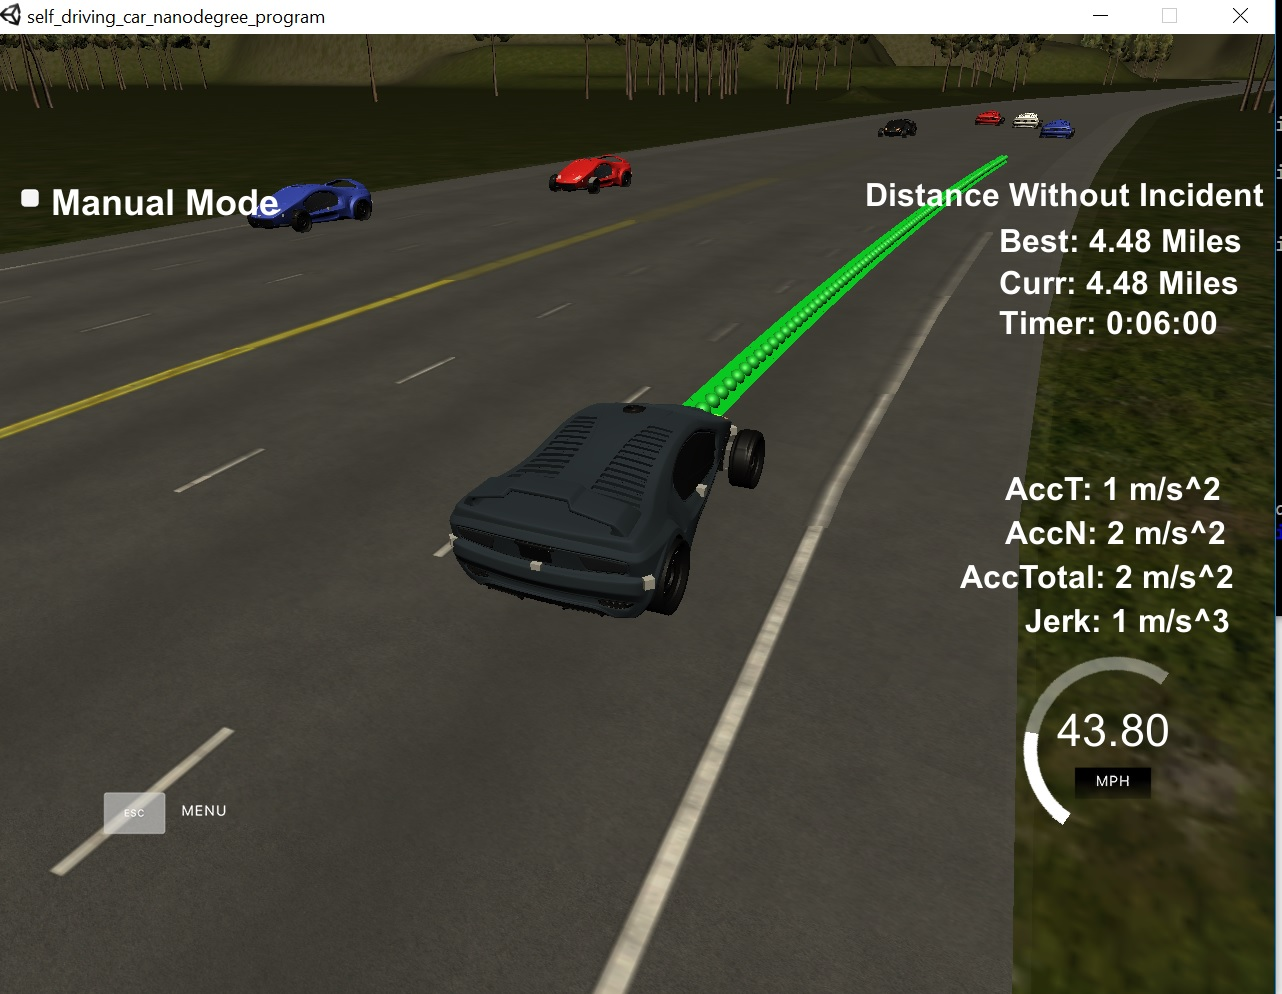
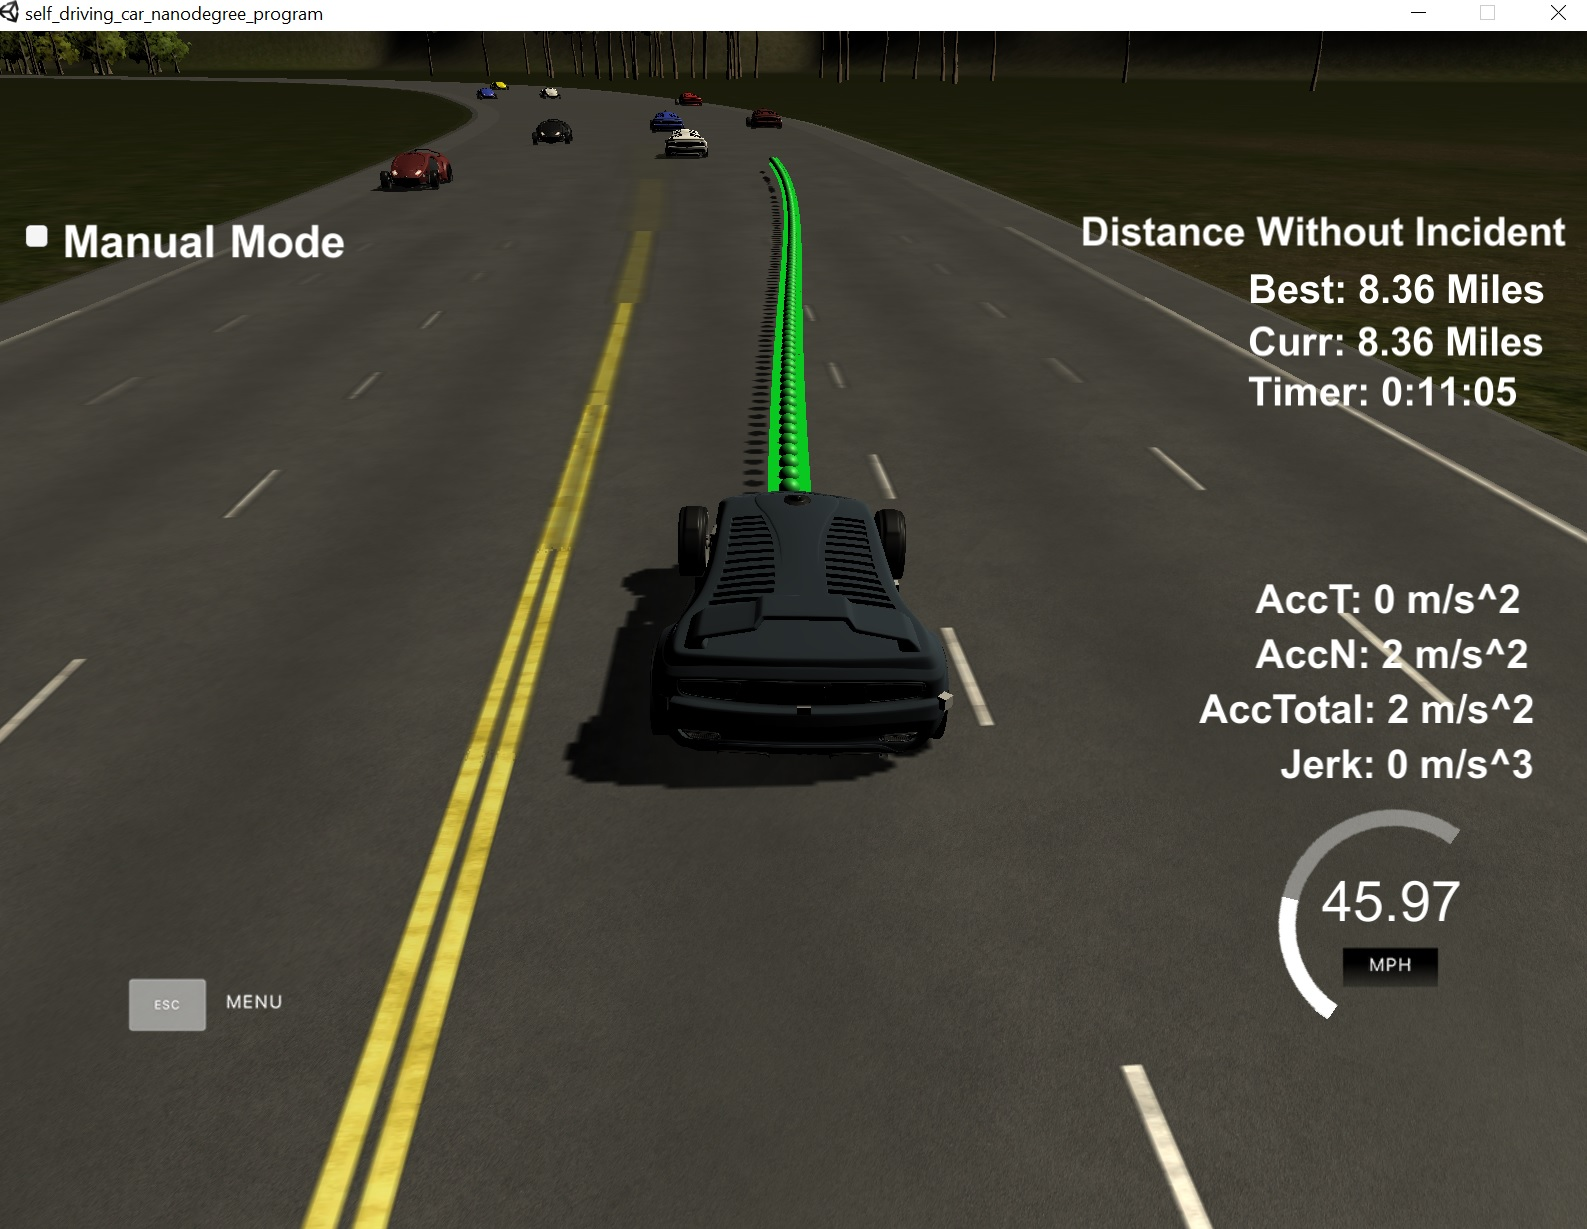
Screenshot

diff --git a/src/driver.cpp b/src/driver.cpp
@@ -103,8 +103,24 @@ bool Driver::decide() {
 		return false;
 
 	// Collision check: find lowest cost trajectory with no collision
-	if (!check_collisions())
-		return false;
+	if (!check_collisions(-100)) {
+		// If no collision free trajectory can be found
+		// Check only cars ahead. It might be that a car just came up from behind
+		if (!check_collisions(-1)) {
+			// There is no collision free trajectory
+			// In this case take lowest cost trajectory that stays in the lane
+			// Better than giving up is to try and move forward a little bit and hope that next cycle
+			// the situation will have improved
+			// This happens if a vehicle pulls in right in front of ego vehicle
+			for (CombinedTrajectory& trajectory : trajectory_candidates) {
+				if (trajectory.lane == vehicle.lane) {
+					trajectory.feasible = true;
+					break;
+				}
+			}
+			
+		}
+	}
 
 	#ifdef LOG
 	int n_counter = 0;
@@ -128,11 +144,11 @@ bool Driver::decide() {
 				LOG(INFO) << "Decision: swith from lane " << vehicle.lane << " to " << trajectory.lane;
 			#endif
 			vehicle.set_trajectory(trajectory);
-			break;
+			return true;
 		}
 	}
 
-	return true;
+	return false;
 }
 
 /**
@@ -141,32 +157,34 @@ bool Driver::decide() {
  * NOTE: trajectory candidates assumed to be sorted by cost ascending, i.e. checks lowest cost trajectory first
  *       trajectories all assumed to be set to feasible = true
  */
-bool Driver::check_collisions() {
+bool Driver::check_collisions(int s_gap_min) {
 	#ifdef TRACE 
-	std::cout << "__Driver::check_collisions__" << std::endl;
+		std::cout << "__Driver::check_collisions__" << std::endl;
 	#endif
 	std::map<Lane, std::vector<ObservedVehicle>>::iterator it_lane;
 	std::vector<ObservedVehicle>::iterator it_vehicle;
 
 	for (CombinedTrajectory& trajectory : trajectory_candidates) {
-		// iterate through all observed vehicles on road
-		it_lane = road.vehicles.begin();
-		while (trajectory.feasible & it_lane != road.vehicles.end()) {
+	// iterate through all observed vehicles on road
+		trajectory.feasible = true;
+		it_lane = road.vehicles_ahead.begin();
+		while (trajectory.feasible & it_lane != road.vehicles_ahead.end()) {
 			it_vehicle = it_lane->second.begin();
 
 			while (trajectory.feasible & it_vehicle != it_lane->second.end()) {
 				// For for a maximum of 1 seconds into the future
-				trajectory.feasible = !(it_vehicle->is_collision(0, std::min(1.0, trajectory.T), trajectory.coefficients_s, trajectory.coefficients_d));
+				if (it_vehicle->s_gap >= s_gap_min)
+					trajectory.feasible = trajectory.feasible && !(it_vehicle->is_collision(0, std::min(1.0, trajectory.T), trajectory.coefficients_s, trajectory.coefficients_d));
 				++it_vehicle;
 			}
 			++it_lane;
 		}
-		// Feasible trajectory found? If so return, no need to check for further collisions
+	// Feasible trajectory found? If so return, no need to check for further collisions
 		if (trajectory.feasible)
 			return true;
 	}
 
-	// No feasible trajectory found
+// No feasible trajectory found
 	return false;
 }
 
@@ -281,6 +299,7 @@ bool Driver::generate_trajectories() {
 			target_lanes = {center, right};
 			break;
 			}
+			// target_lanes = {left, czenter, right};
 		}
 	}
 

diff --git a/src/constants.h b/src/constants.h
@@ -14,7 +14,7 @@
 // #define LOG
 
 // Speed limit in meters / second
-const double SPEED_LIMIT = 20.5 ; //22.262 is 49.8 mph
+const double SPEED_LIMIT = 20.7 ; //22.262 is 49.8 mph
 // Conversion factor MPH to MS
 const double MPH_TO_MS = 0.44704;
 // Conversion factor MS to MPH
@@ -29,13 +29,13 @@ const int LANE_WIDTH = 4;
 // Half of vehicle width - wider than normal (2m)
 const double VEHICLE_WITDH = LANE_WIDTH / 2 - 0.4;
 // Half of vehicle length
-const double VEHICLE_LENGTH = 5.0 ;
+const double VEHICLE_LENGTH = 6.0 ;
 // Expansion factor: the longer we look into the future, the longer a vehicle is assumed to cater for uncertainty
 const double VEHICLE_EXPANSION = 0.02;
 
 // Kinematics
 // Maximum acceleration / deceleration
-const double MAX_A = 9.0; // in m/s^2
+const double MAX_A = 9.5; // in m/s^2
 const double MAX_A_SQUARED = MAX_A * MAX_A; // in m/s^2
 // Maximum jerk
 const double MAX_JERK = 50; // in m/s^3
@@ -46,7 +46,7 @@ const double MIN_VELOCITY_LANE = 6.7; // 15 mph
 
 // Distance to leading vehicle
 const double MIN_GAP = 1.0; // in meters
-const double MIN_TIME_GAP = 2.0; // in seconds
+const double MIN_TIME_GAP = 1.0; // in seconds
 
 // Cycle Time = Plannning Horizon
 // Cycle time in seconds
@@ -59,7 +59,7 @@ const int CYCLE_STEPS_PREV = 0.5 / CYCLE_INCREMENT;
 
 // Cost weights
 const double WEIGHT_T = 50; // Time Cost
-const double WEIGHT_J = 1; // Jerk Cost
+const double WEIGHT_J = 2; // Jerk Cost
 const double WEIGHT_V = 10; // Final State Cost: velocity
 const double WEIGHT_P = 10; // Final State Cost: position
 

diff --git a/src/driver.h b/src/driver.h
@@ -102,8 +102,10 @@ protected:
 
 	/**
 	 * @brief Check collisions on trajectory candidates
+	 *
+	 * s_gap_min: minimum gap for a car to be considered
 	 */
-	bool check_collisions();
+	bool check_collisions(int s_gap_min);
 
 	double get_cost_position(std::vector<double>& coefficients, double& T, double& target_position);
 	double get_cost_velocity(std::vector<double>& coefficients, double& T, double& target_velocity);

diff --git a/src/road.cpp b/src/road.cpp
@@ -47,7 +47,7 @@ bool Road::observe(Vehicle& ego_vehicle, std::vector<std::vector<double>>& obser
 		// Only update if
 		// - the vehicle is close enough ahead or behind to be relevant 
 		// - the vehicle is actually on the road and in a lane
-		if (vehicle.s_gap < 99 & vehicle.s_gap > -60) {
+		if (vehicle.s_gap < 60 & vehicle.s_gap > -30) {
 		// if (vehicle.s_ref > 0) {
 				#ifdef DEBUG
 				vehicle_count++;

diff --git a/src/road.h b/src/road.h
@@ -52,7 +52,7 @@ public:
 	 */
 	std::map<int, double> lane_weights =  {
 		{0, 1.0},
-		{1, 0.95}, // Lower weight to center lane
+		{1, 0.8}, // Lower weight to center lane
 		{2, 1.0},
 	};
 

diff --git a/README.md b/README.md
@@ -9,3 +9,10 @@ In this project your goal is to safely navigate around a virtual highway with ot
 The project implements the goals based on the work of Werling et al. and plans completely in a Frenet space by generating trajectories for velocity keeping (no vehicle ahead) or position (vehicle ahead), and selecting the best via a cost function.
 
 ![Simulator Screenshot](https://github.com/sonofsilberling/Udacity-Path-Planning/blob/master/screenshot.jpg)
+
+The ego vehicle has a preference for driving in the center lane by weighting costs for each lane, and it has a preference to follow a velocity keeping trajectory, i.e. driving in a lane without a vehicle ahead.
+
+
+### Observation
+Most effort in implementing the project was not with the approach on handling trajectories or calibrating the cost function, which still has scope to improve.
+Most effort was in dealing with the simulator and its waypoints. In the end, the project uses the waypoints to generate a single spline along the path, and the only two values coming back from the simulator for the ego vehicle are the initial s and d coordinates, which quickly get smoothed into the generated spline - hence the initial "flicker" of the ego vehicle.
